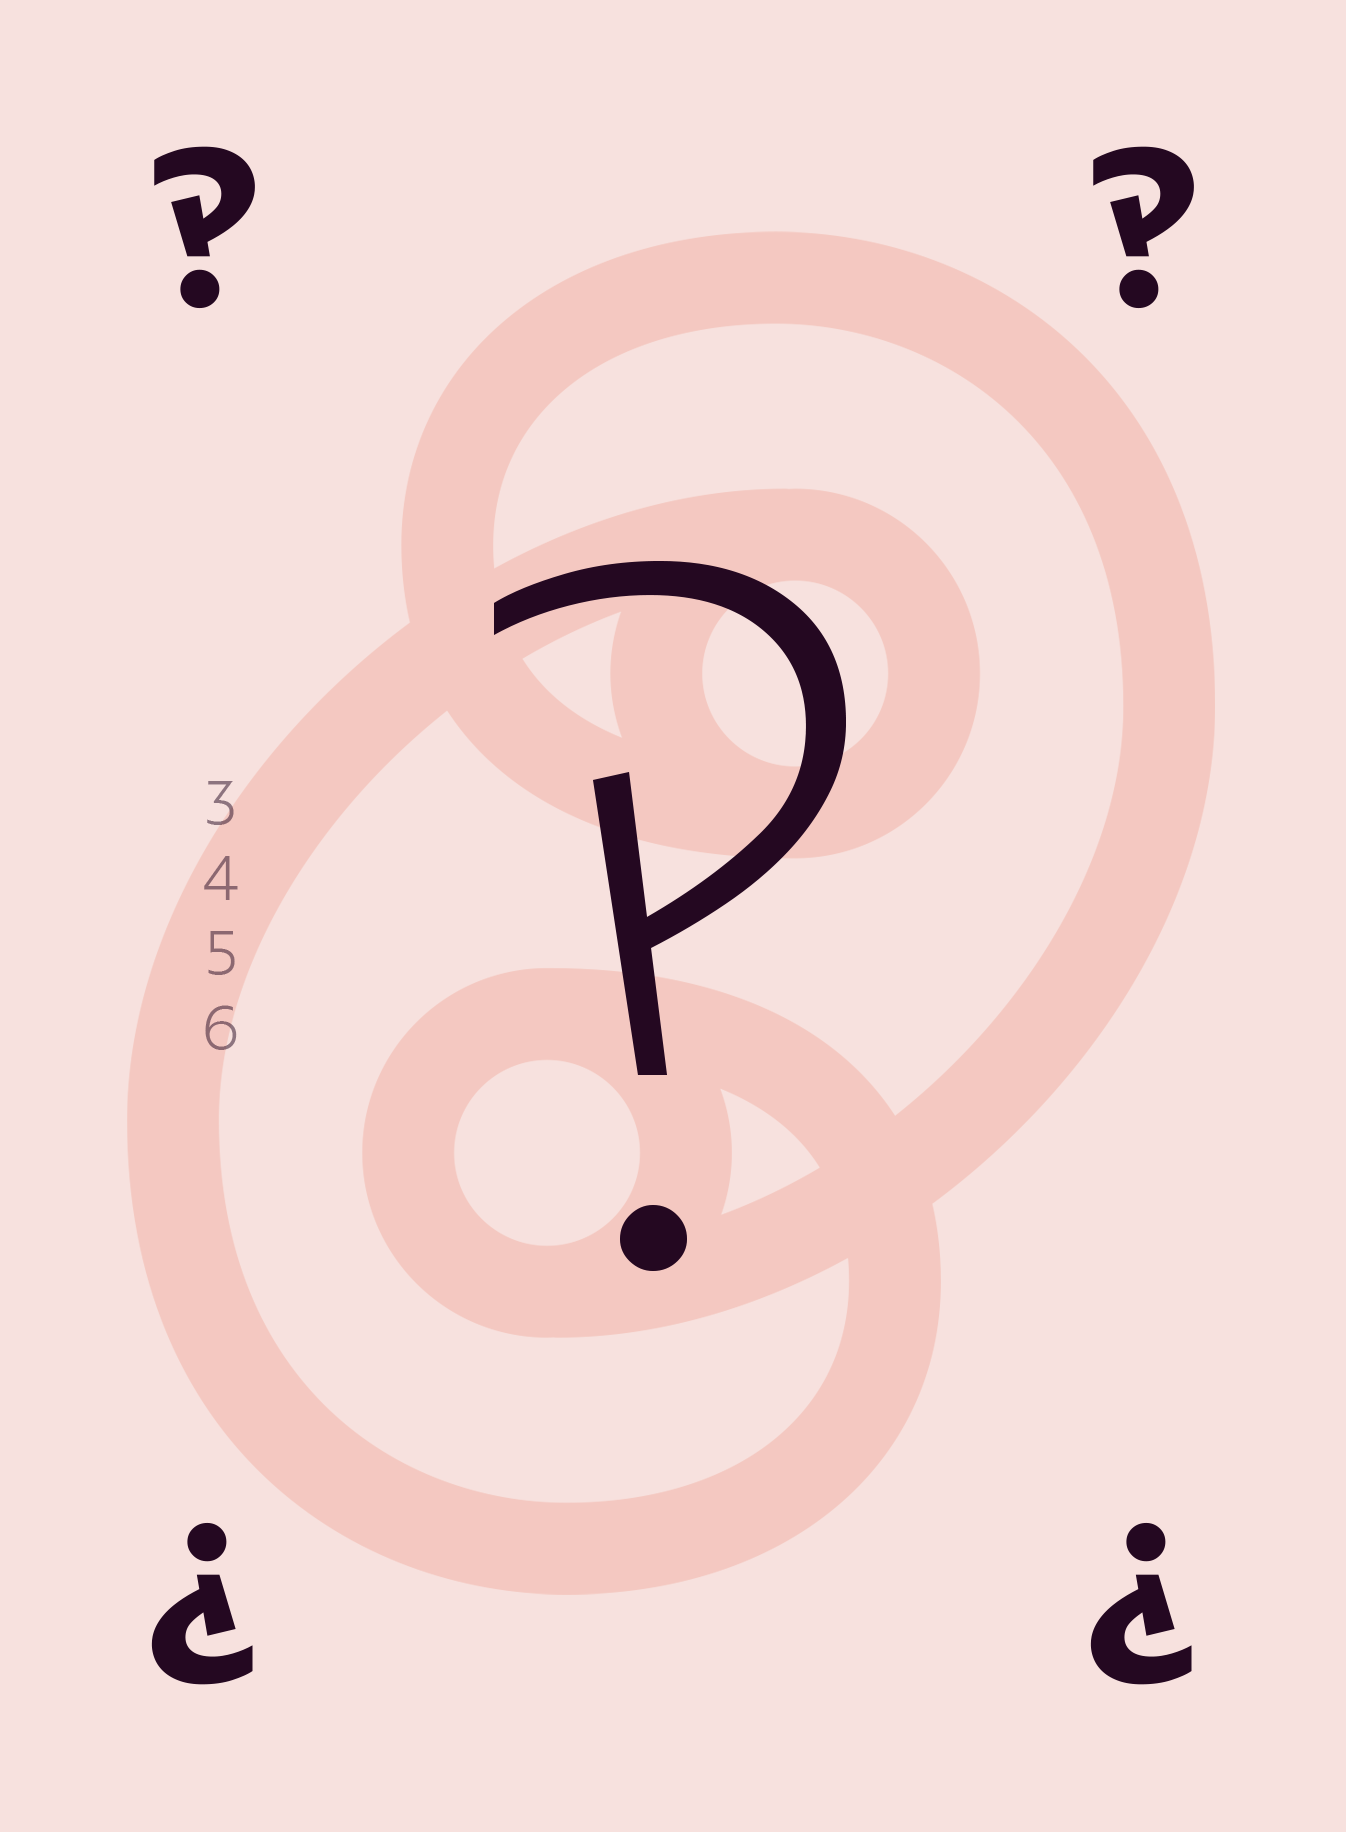
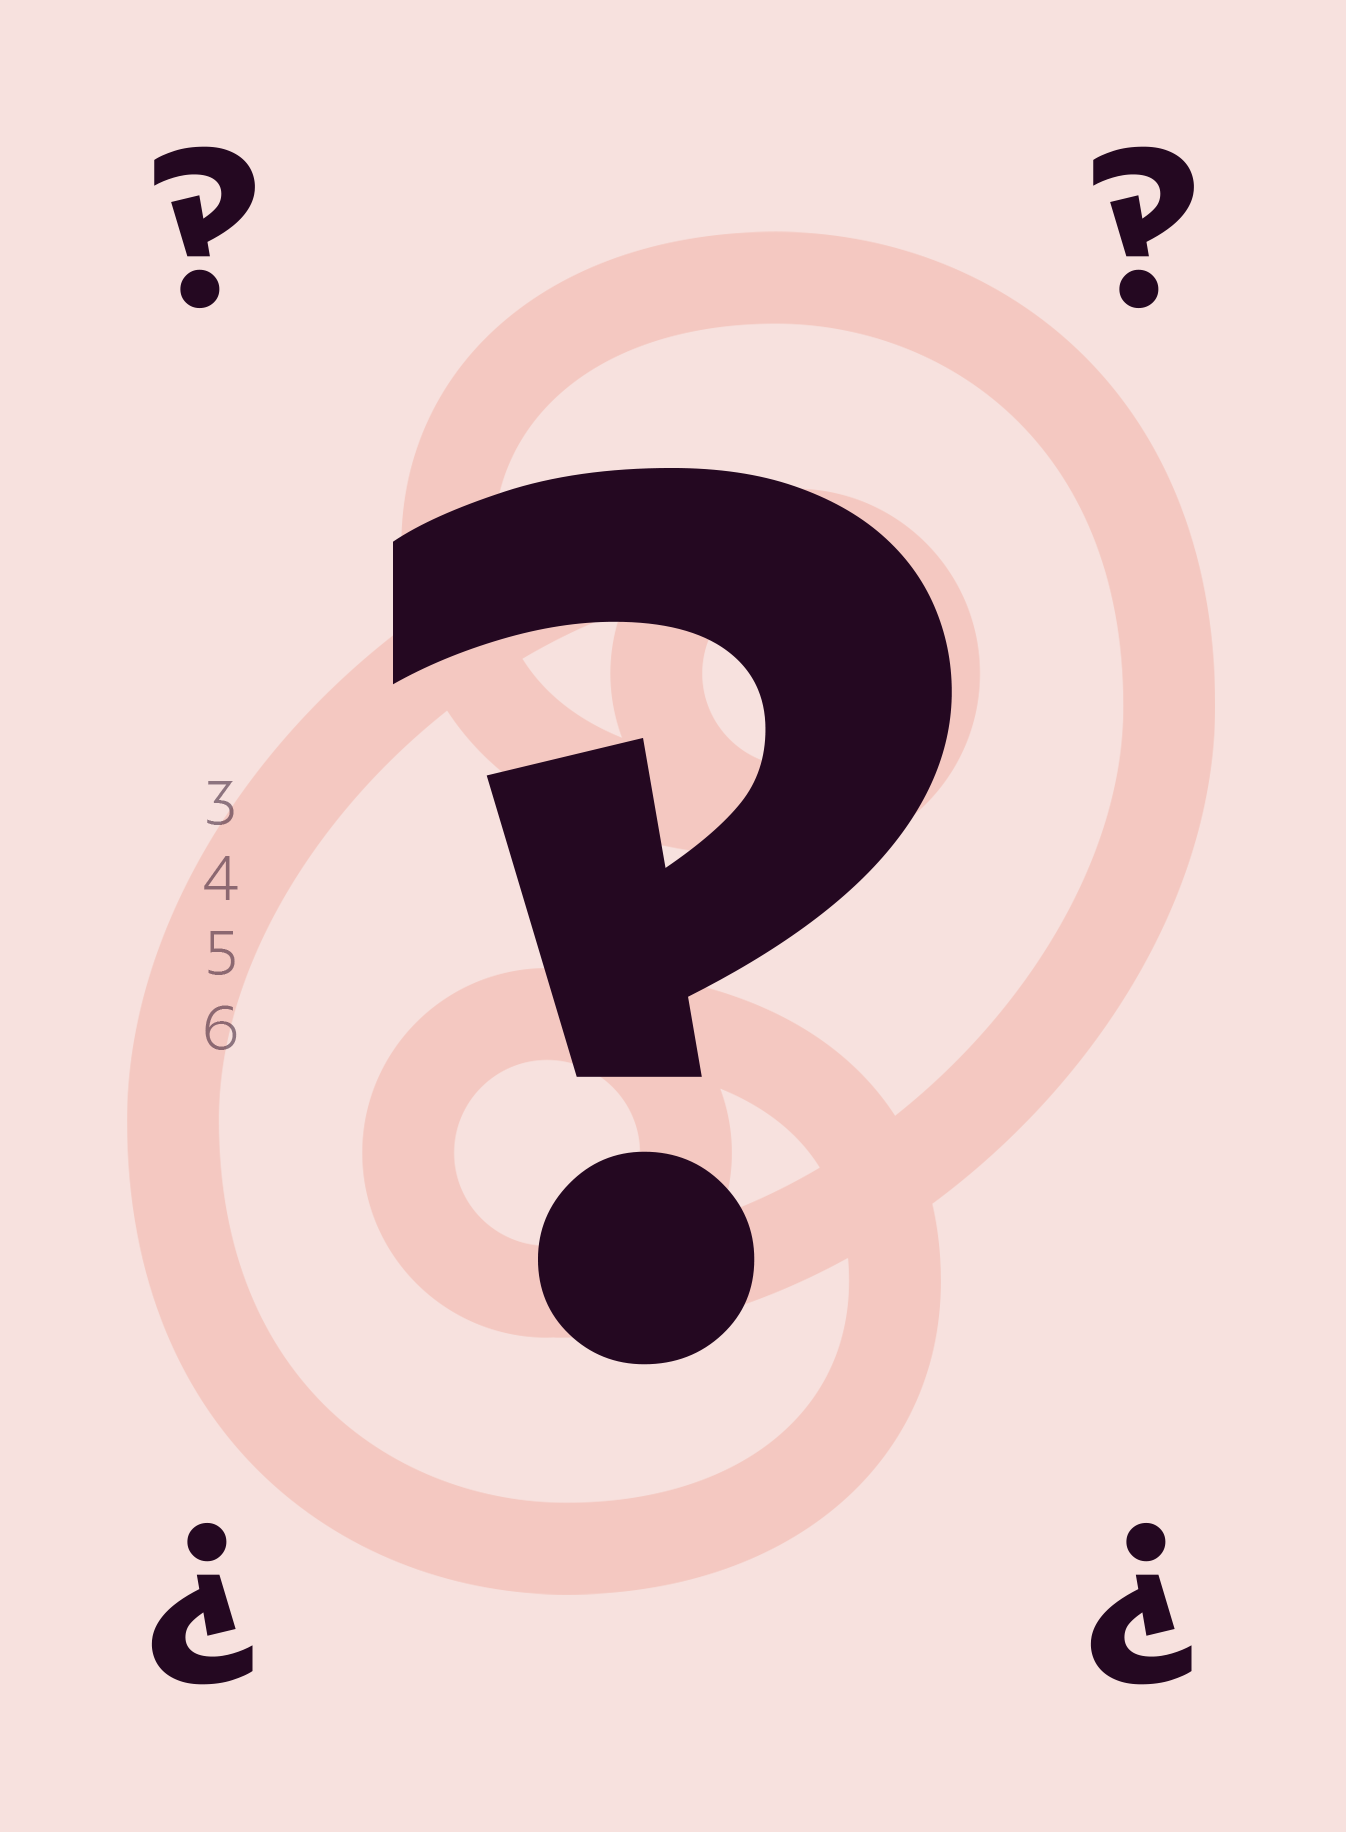
Clarifications

Changed region(s): [[0.2808, 0.2489, 0.7177, 0.5912], [0.3744, 0.6223, 0.5617, 0.7467]]

diff --git a/docs/README.html b/docs/README.html
@@ -463,7 +463,7 @@ body.book #toc,body.book #preamble,body.book h1.sect0,body.book .sect1>h2{page-b
 <p>10 ★ cards: 0, 0, 1, 1, 2, 2, 3, 4, 5, 6.</p>
 </li>
 <li>
-<p>1 Interrobang card.</p>
+<p>1 Interrobang ‽ card.</p>
 </li>
 </ul>
 </div>
@@ -492,7 +492,11 @@ Will you have the necessary card, or will you need to adapt?</p>
 <ul class="sectlevel2">
 <li><a href="#distribution">Distribution</a></li>
 <li><a href="#_estimation">Estimation</a></li>
-<li><a href="#_trick_taking">Trick taking</a></li>
+<li><a href="#_trick_taking">Trick taking</a>
+<ul class="sectlevel3">
+<li><a href="#_special_cards">Special cards (★ &amp; ‽)</a></li>
+</ul>
+</li>
 <li><a href="#_scoring">Scoring</a></li>
 </ul>
 </li>
@@ -625,26 +629,30 @@ Each player must use <strong>another card</strong> for their estimation.</p>
 </li>
 <li>
 <p>Note on a paper sheet the estimation of each player.</p>
-<div class="paragraph">
-<p>If a player used a Star ★ card to estimate, mark their estimation with an asterisk (*) as this modifies their scoring at the end of the round.</p>
-</div>
 </li>
 <li>
 <p>Define the <strong>first leader</strong> and the <strong>exception suit</strong>:</p>
+<div class="openblock">
+<div class="content">
 <div class="ulist">
 <ul>
 <li>
 <p><strong>If at least one player has estimated a non Star ★ card:</strong><br>
 The player who estimated <strong>the highest non Star ★ card</strong> becomes the first leader.
-In case of a tie, the player who has the <strong>Interrobang</strong> card reveals it and chooses the first leader amongst the tied players.
+In case of a tie, ask if any player has the <strong>Interrobang</strong> card reveals it and chooses the first leader amongst the tied players.
 The suit of the first player&#8217;s estimation card defines the exception suit.</p>
 </li>
 <li>
 <p><strong>If all players have estimated Star ★ cards</strong>:<br>
-The player who estimated <strong>the highest card</strong> becomes the first leader, and that player chooses the exception suit.
+The player who estimated <strong>the highest card</strong> becomes the first leader, and that player decides the exception suit.
 In case of a tie, all tied players announce their chosen exception suit, then the player who has the <strong>Interrobang</strong> card reveals it and chooses the first leader amongst them.</p>
 </li>
 </ul>
+</div>
+</div>
+</div>
+<div class="paragraph">
+<p>In both cases, if no player has the Interrobang card (it is in the discard), shuffle the tied players estimation cards, chose one at random to become the first leader, then give each player their card back.</p>
 </div>
 </li>
 <li>
@@ -700,18 +708,6 @@ The suit of the card is called <strong>lead suit</strong>.</p>
 <p>In clockwise order, each other player chooses a card from their hand and plays it face up on the table.
 The suit of this card <strong>must</strong> be of the lead suit if possible.
 If you don&#8217;t have a card of the lead suit, you can play <strong>any</strong> other card.</p>
-<div class="admonitionblock important">
-<table>
-<tr>
-<td class="icon">
-<i class="fa icon-important" title="Important"></i>
-</td>
-<td class="content">
-<strong>Exception:</strong> you can always play a Star ★ card or the Interrobang card, whether you have a card of the lead suit or not.
-</td>
-</tr>
-</table>
-</div>
 </li>
 <li>
 <p>Define the trick winner:</p>
@@ -732,20 +728,6 @@ If you don&#8217;t have a card of the lead suit, you can play <strong>any</stron
 </div>
 </div>
 </div>
-<div class="admonitionblock important">
-<table>
-<tr>
-<td class="icon">
-<i class="fa icon-important" title="Important"></i>
-</td>
-<td class="content">
-The ★ cards are always <strong>considered of the lead suit</strong>.<br>
-  A ★ cards is weaker than a lead suit card of the same value.
-  (For example, if ♥ is the lead suit, the order is therefore 2♥ &gt; 2★ &gt; 1♥).
-</td>
-</tr>
-</table>
-</div>
 <div class="paragraph">
 <p>That player takes the cards of the trick and places them face down in front of them.
 If that wasn&#8217;t the 7th trick, they become the leader of the next trick.</p>
@@ -759,6 +741,26 @@ This information is public and always visible.</p>
 </div>
 <div class="paragraph">
 <p>Once all seven tricks have been played, tally up the scores.</p>
+</div>
+<div class="sect3">
+<h4 id="_special_cards">Special cards (★ &amp; ‽)</h4>
+<div class="ulist">
+<ul>
+<li>
+<p>You can always play a Star ★ card or the Interrobang ‽ card, whether you have a card of the lead suit or not.</p>
+</li>
+<li>
+<p>Star ★ cards are always <strong>considered of the lead suit</strong>.<br>
+A ★ card is weaker than a lead suit card of the same value.
+(For example, if ♥ is the lead suit, the order is therefore 2♥ &gt; 2★ &gt; 1♥).</p>
+</li>
+<li>
+<p>If a player opens with a special card (★ or ‽), then the next player can play any card of their choosing.
+If that card is not special, it defines the lead suit.
+If it is special, then the lead suit will be defined by the next player, and so on.</p>
+</li>
+</ul>
+</div>
 </div>
 </div>
 <div class="sect2">
@@ -964,7 +966,7 @@ The Dummy never becomes first leader (its estimation is ignored for that purpose
 </div>
 <div id="footer">
 <div id="footer-text">
-Last updated 2022-10-23 18:14:08 +0200
+Last updated 2023-02-04 11:27:40 +0100
 </div>
 </div>
 <script type="text/x-mathjax-config">
